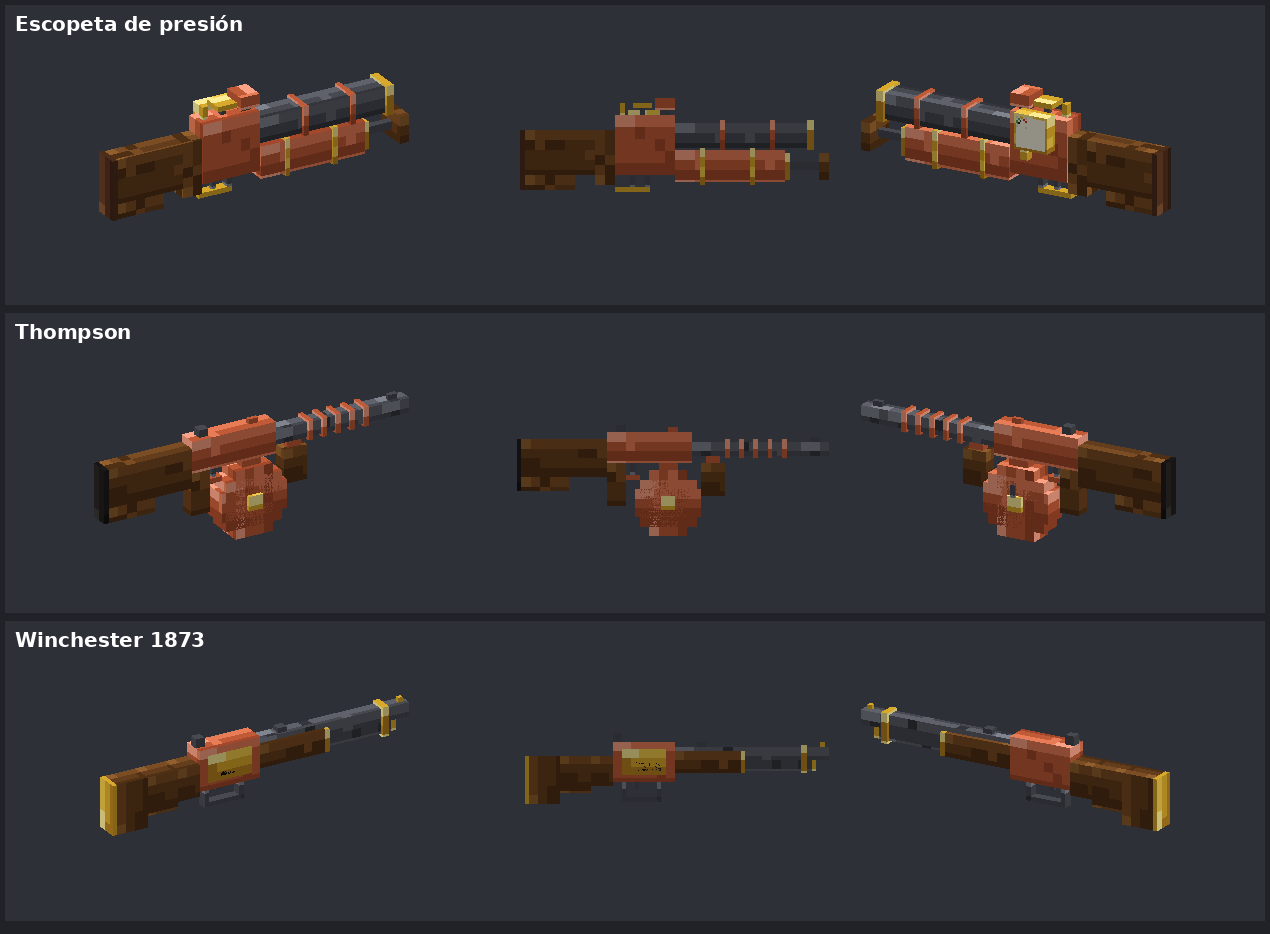
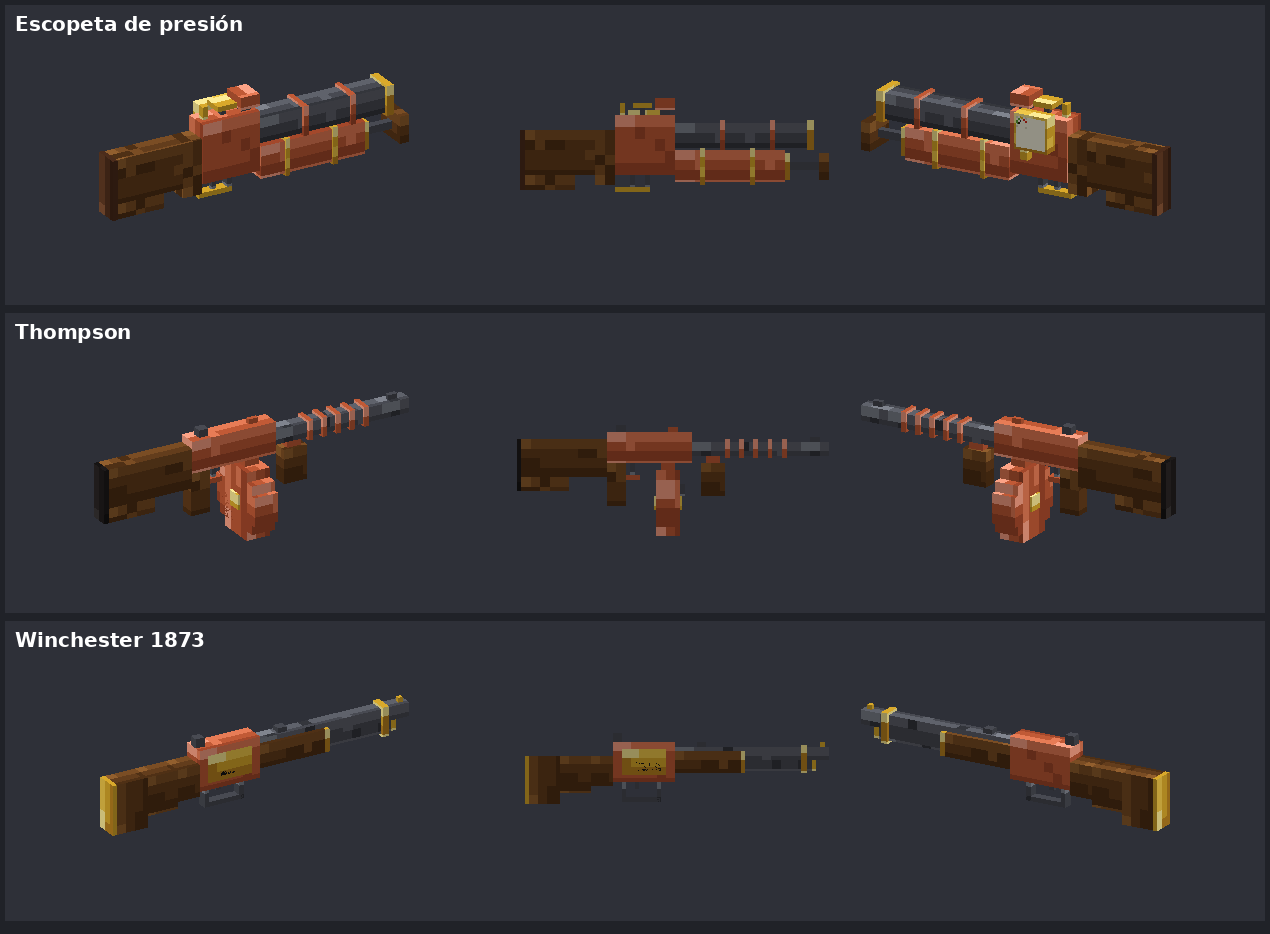
Thompson: el tambor girado 90 grados (la cara redonda mira hacia delante)

Changed region(s): [[0.1535, 0.4968, 0.2457, 0.5899], [0.7677, 0.4968, 0.8598, 0.5899], [0.4913, 0.4968, 0.5528, 0.5899]]

diff --git a/herramientas/armas_pulidas.py b/herramientas/armas_pulidas.py
@@ -473,15 +473,15 @@ def thompson(con_tambor=True):
         P('cantonera', 20, 20.5, 5, 10.5, 2, 'negro'),
     ]
     if con_tambor:
-        # el tambor de la mafia («Chicago typewriter»): un disco de 7 px en escalones (como los círculos de Minecraft),
-        # plano a los lados, con su buje de latón y la llave de cuerda
+        # el tambor de la mafia: un disco de 7 px en escalones (como los círculos de Minecraft), con la cara redonda
+        # mirando hacia delante y hacia atrás, su buje de latón y la llave de cuerda
         el += [
-            P('cuello_tambor', 3.5, 5.5, 7.25, 8, 1.5, 'cobre'),
-            P('tambor_a', 1, 8, 2.25, 5.25, 2.5, 'cobre'),
-            P('tambor_b', 1.5, 7.5, 1.25, 6.25, 2.5, 'cobre'),
-            P('tambor_c', 2.5, 6.5, 0.25, 7.25, 2.5, 'cobre'),
-            P('buje', 3.75, 5.25, 3, 4.5, 3.25, 'laton'),
-            C('llave', (6.125, 4.5, 4.25), (6.375, 5.75, 4.75), 'hierro'),
+            P('cuello_tambor', 3.75, 5.25, 7.25, 8, 1.5, 'cobre'),
+            C('tambor_a', (4.5, 2.25, 3.25), (11.5, 5.25, 5.75), 'cobre'),
+            C('tambor_b', (5, 1.25, 3.25), (11, 6.25, 5.75), 'cobre'),
+            C('tambor_c', (6, 0.25, 3.25), (10, 7.25, 5.75), 'cobre'),
+            C('buje', (7.25, 3, 3), (8.75, 4.5, 6), 'laton'),
+            C('llave', (7.75, 4.5, 2.75), (8.25, 5.75, 3.25), 'hierro'),
         ]
     return el
 
